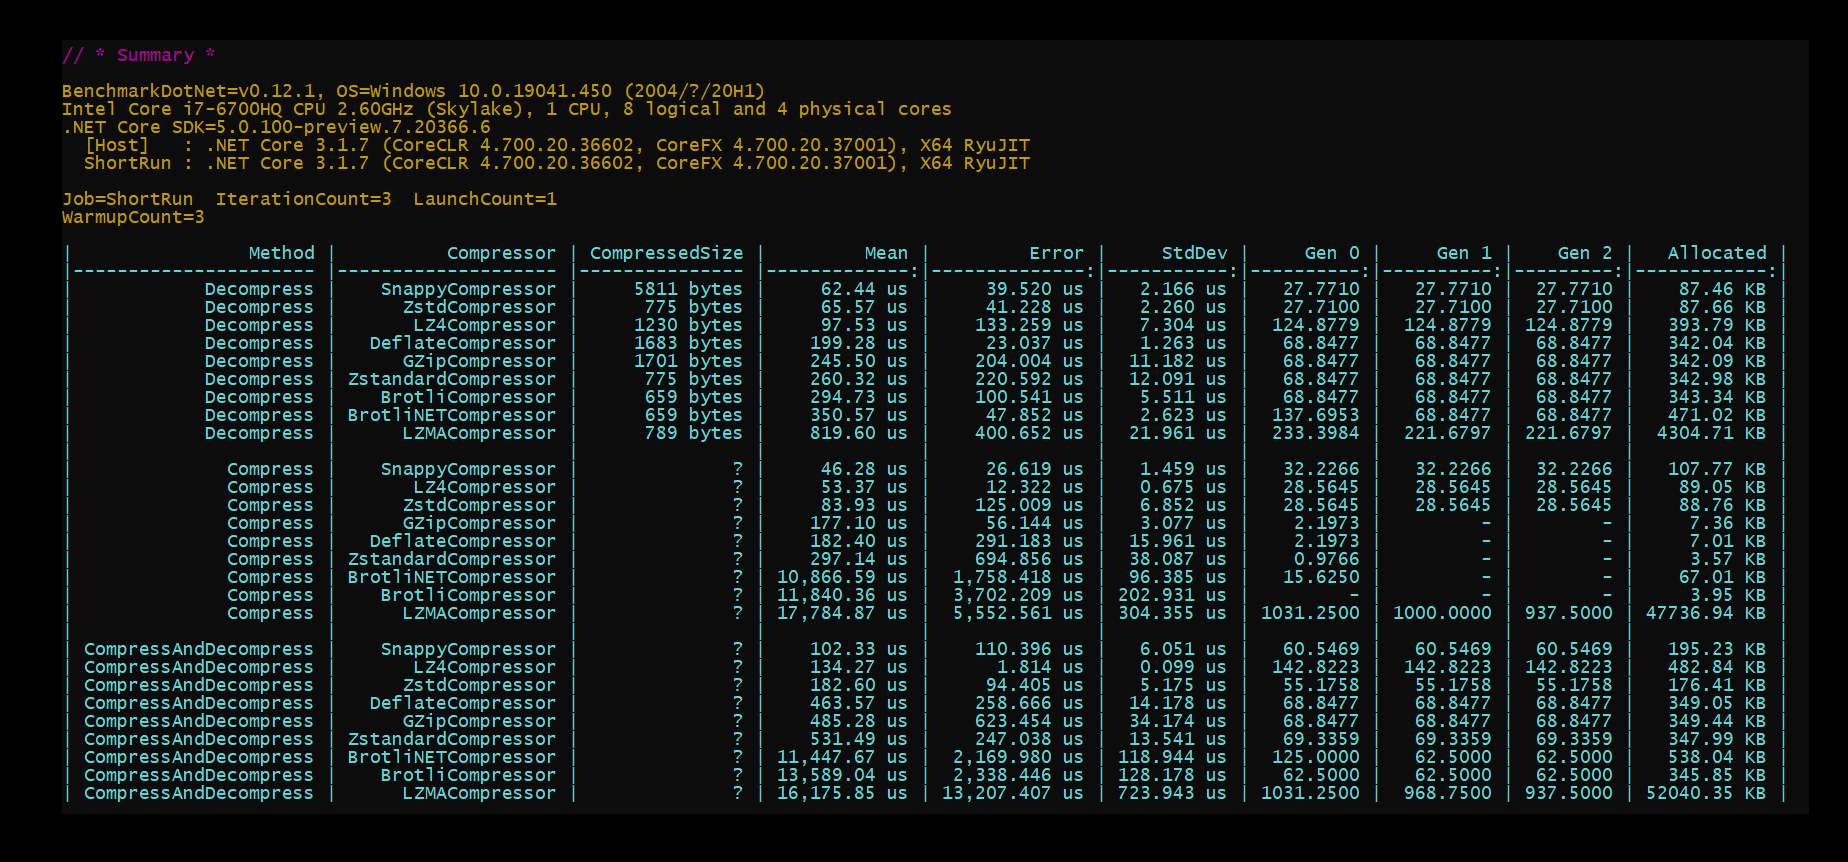
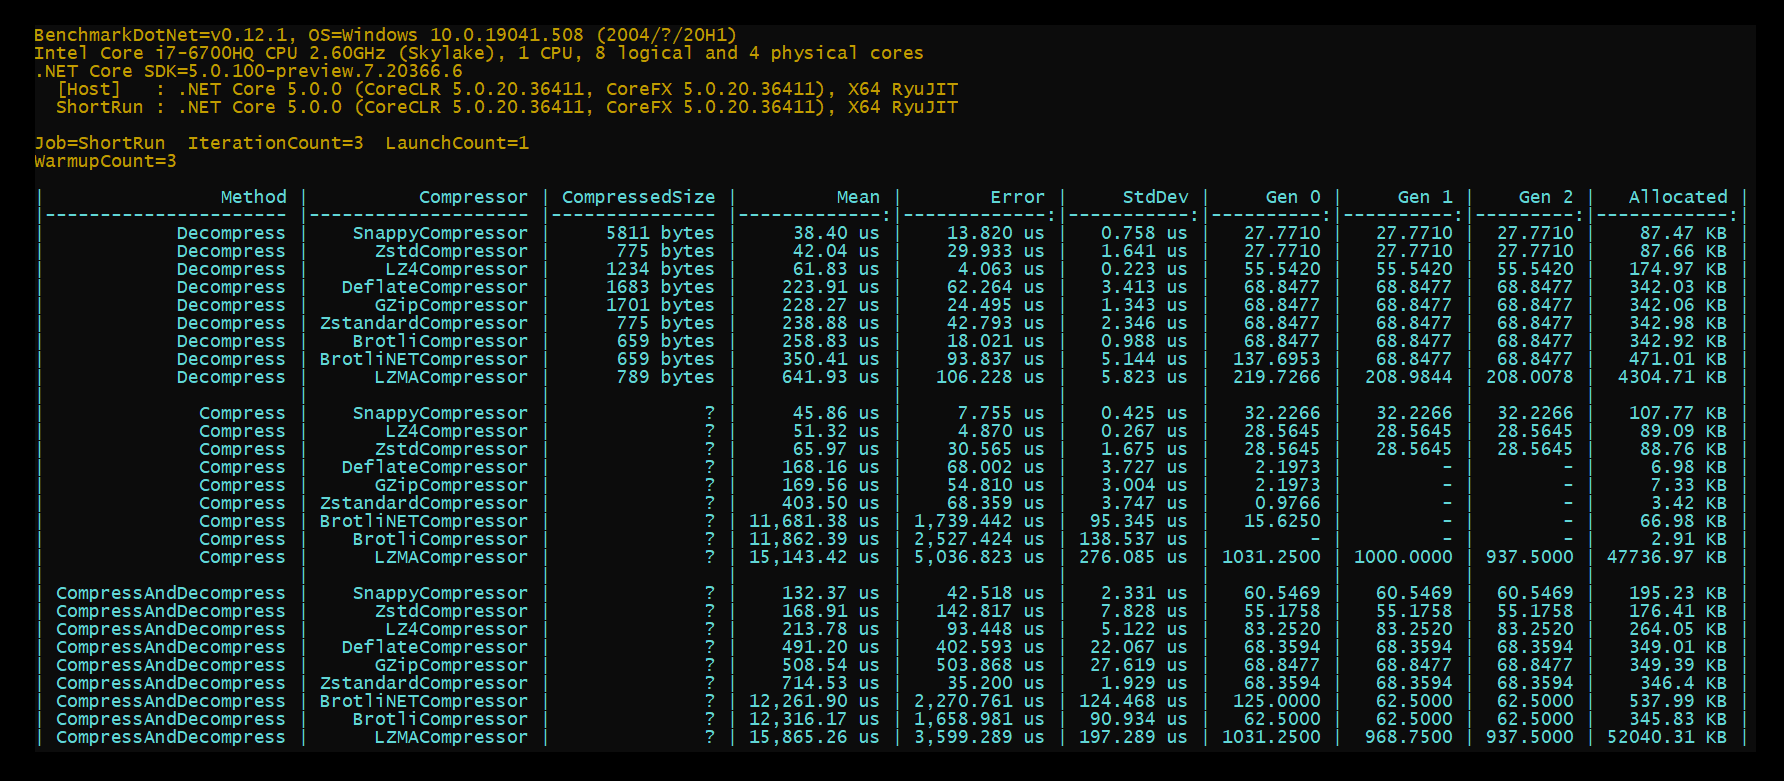
LZ4 fix actual length

Changed region(s): [[0.0, 0.0307, 0.9865, 0.9526], [0.0308, 0.3073, 0.0617, 0.338]]

diff --git a/test/EasyCompressor.Benchmark/BenchmarkDotNet.Artifacts/results/EasySerializer.Benchmark.BinaryBenchmark-report.html b/test/EasyCompressor.Benchmark/BenchmarkDotNet.Artifacts/results/EasySerializer.Benchmark.BinaryBenchmark-report.html
@@ -1,0 +1,58 @@
+<!DOCTYPE html>
+<html lang='en'>
+<head>
+<meta charset='utf-8' />
+<title>EasySerializer.Benchmark.BinaryBenchmark-20200915-010350</title>
+
+<style type="text/css">
+	table { border-collapse: collapse; display: block; width: 100%; overflow: auto; }
+	td, th { padding: 6px 13px; border: 1px solid #ddd; text-align: right; }
+	tr { background-color: #fff; border-top: 1px solid #ccc; }
+	tr:nth-child(even) { background: #f8f8f8; }
+</style>
+</head>
+<body>
+<pre><code>
+BenchmarkDotNet=v0.12.1, OS=Windows 10.0.19041.508 (2004/?/20H1)
+Intel Core i7-6700HQ CPU 2.60GHz (Skylake), 1 CPU, 8 logical and 4 physical cores
+.NET Core SDK=5.0.100-preview.7.20366.6
+  [Host]   : .NET Core 5.0.0 (CoreCLR 5.0.20.36411, CoreFX 5.0.20.36411), X64 RyuJIT
+  ShortRun : .NET Core 5.0.0 (CoreCLR 5.0.20.36411, CoreFX 5.0.20.36411), X64 RyuJIT
+</code></pre>
+<pre><code>Job=ShortRun  IterationCount=3  LaunchCount=1  
+WarmupCount=3  
+</code></pre>
+
+<table>
+<thead><tr><th>         Method</th><th>   Compressor</th><th>CompressedSize</th><th>  Mean</th><th> Error</th><th>StdDev</th><th>Gen 0</th><th>Gen 1</th><th>Gen 2</th><th>Allocated</th>
+</tr>
+</thead><tbody><tr><td>Decompress</td><td>SnappyCompressor</td><td>5811 bytes</td><td>38.40 &mu;s</td><td>13.820 &mu;s</td><td>0.758 &mu;s</td><td>27.7710</td><td>27.7710</td><td>27.7710</td><td>87.47 KB</td>
+</tr><tr><td>Decompress</td><td>ZstdCompressor</td><td>775 bytes</td><td>42.04 &mu;s</td><td>29.933 &mu;s</td><td>1.641 &mu;s</td><td>27.7710</td><td>27.7710</td><td>27.7710</td><td>87.66 KB</td>
+</tr><tr><td>Decompress</td><td>LZ4Compressor</td><td>1234 bytes</td><td>61.83 &mu;s</td><td>4.063 &mu;s</td><td>0.223 &mu;s</td><td>55.5420</td><td>55.5420</td><td>55.5420</td><td>174.97 KB</td>
+</tr><tr><td>Decompress</td><td>DeflateCompressor</td><td>1683 bytes</td><td>223.91 &mu;s</td><td>62.264 &mu;s</td><td>3.413 &mu;s</td><td>68.8477</td><td>68.8477</td><td>68.8477</td><td>342.03 KB</td>
+</tr><tr><td>Decompress</td><td>GZipCompressor</td><td>1701 bytes</td><td>228.27 &mu;s</td><td>24.495 &mu;s</td><td>1.343 &mu;s</td><td>68.8477</td><td>68.8477</td><td>68.8477</td><td>342.06 KB</td>
+</tr><tr><td>Decompress</td><td>ZstandardCompressor</td><td>775 bytes</td><td>238.88 &mu;s</td><td>42.793 &mu;s</td><td>2.346 &mu;s</td><td>68.8477</td><td>68.8477</td><td>68.8477</td><td>342.98 KB</td>
+</tr><tr><td>Decompress</td><td>BrotliCompressor</td><td>659 bytes</td><td>258.83 &mu;s</td><td>18.021 &mu;s</td><td>0.988 &mu;s</td><td>68.8477</td><td>68.8477</td><td>68.8477</td><td>342.92 KB</td>
+</tr><tr><td>Decompress</td><td>BrotliNETCompressor</td><td>659 bytes</td><td>350.41 &mu;s</td><td>93.837 &mu;s</td><td>5.144 &mu;s</td><td>137.6953</td><td>68.8477</td><td>68.8477</td><td>471.01 KB</td>
+</tr><tr><td>Decompress</td><td>LZMACompressor</td><td>789 bytes</td><td>641.93 &mu;s</td><td>106.228 &mu;s</td><td>5.823 &mu;s</td><td>219.7266</td><td>208.9844</td><td>208.0078</td><td>4304.71 KB</td>
+</tr><tr><td>Compress</td><td>SnappyCompressor</td><td>?</td><td>45.86 &mu;s</td><td>7.755 &mu;s</td><td>0.425 &mu;s</td><td>32.2266</td><td>32.2266</td><td>32.2266</td><td>107.77 KB</td>
+</tr><tr><td>Compress</td><td>LZ4Compressor</td><td>?</td><td>51.32 &mu;s</td><td>4.870 &mu;s</td><td>0.267 &mu;s</td><td>28.5645</td><td>28.5645</td><td>28.5645</td><td>89.09 KB</td>
+</tr><tr><td>Compress</td><td>ZstdCompressor</td><td>?</td><td>65.97 &mu;s</td><td>30.565 &mu;s</td><td>1.675 &mu;s</td><td>28.5645</td><td>28.5645</td><td>28.5645</td><td>88.76 KB</td>
+</tr><tr><td>Compress</td><td>DeflateCompressor</td><td>?</td><td>168.16 &mu;s</td><td>68.002 &mu;s</td><td>3.727 &mu;s</td><td>2.1973</td><td>-</td><td>-</td><td>6.98 KB</td>
+</tr><tr><td>Compress</td><td>GZipCompressor</td><td>?</td><td>169.56 &mu;s</td><td>54.810 &mu;s</td><td>3.004 &mu;s</td><td>2.1973</td><td>-</td><td>-</td><td>7.33 KB</td>
+</tr><tr><td>Compress</td><td>ZstandardCompressor</td><td>?</td><td>403.50 &mu;s</td><td>68.359 &mu;s</td><td>3.747 &mu;s</td><td>0.9766</td><td>-</td><td>-</td><td>3.42 KB</td>
+</tr><tr><td>Compress</td><td>BrotliNETCompressor</td><td>?</td><td>11,681.38 &mu;s</td><td>1,739.442 &mu;s</td><td>95.345 &mu;s</td><td>15.6250</td><td>-</td><td>-</td><td>66.98 KB</td>
+</tr><tr><td>Compress</td><td>BrotliCompressor</td><td>?</td><td>11,862.39 &mu;s</td><td>2,527.424 &mu;s</td><td>138.537 &mu;s</td><td>-</td><td>-</td><td>-</td><td>2.91 KB</td>
+</tr><tr><td>Compress</td><td>LZMACompressor</td><td>?</td><td>15,143.42 &mu;s</td><td>5,036.823 &mu;s</td><td>276.085 &mu;s</td><td>1031.2500</td><td>1000.0000</td><td>937.5000</td><td>47736.97 KB</td>
+</tr><tr><td>CompressAndDecompress</td><td>SnappyCompressor</td><td>?</td><td>132.37 &mu;s</td><td>42.518 &mu;s</td><td>2.331 &mu;s</td><td>60.5469</td><td>60.5469</td><td>60.5469</td><td>195.23 KB</td>
+</tr><tr><td>CompressAndDecompress</td><td>ZstdCompressor</td><td>?</td><td>168.91 &mu;s</td><td>142.817 &mu;s</td><td>7.828 &mu;s</td><td>55.1758</td><td>55.1758</td><td>55.1758</td><td>176.41 KB</td>
+</tr><tr><td>CompressAndDecompress</td><td>LZ4Compressor</td><td>?</td><td>213.78 &mu;s</td><td>93.448 &mu;s</td><td>5.122 &mu;s</td><td>83.2520</td><td>83.2520</td><td>83.2520</td><td>264.05 KB</td>
+</tr><tr><td>CompressAndDecompress</td><td>DeflateCompressor</td><td>?</td><td>491.20 &mu;s</td><td>402.593 &mu;s</td><td>22.067 &mu;s</td><td>68.3594</td><td>68.3594</td><td>68.3594</td><td>349.01 KB</td>
+</tr><tr><td>CompressAndDecompress</td><td>GZipCompressor</td><td>?</td><td>508.54 &mu;s</td><td>503.868 &mu;s</td><td>27.619 &mu;s</td><td>68.8477</td><td>68.8477</td><td>68.8477</td><td>349.39 KB</td>
+</tr><tr><td>CompressAndDecompress</td><td>ZstandardCompressor</td><td>?</td><td>714.53 &mu;s</td><td>35.200 &mu;s</td><td>1.929 &mu;s</td><td>68.3594</td><td>68.3594</td><td>68.3594</td><td>346.4 KB</td>
+</tr><tr><td>CompressAndDecompress</td><td>BrotliNETCompressor</td><td>?</td><td>12,261.90 &mu;s</td><td>2,270.761 &mu;s</td><td>124.468 &mu;s</td><td>125.0000</td><td>62.5000</td><td>62.5000</td><td>537.99 KB</td>
+</tr><tr><td>CompressAndDecompress</td><td>BrotliCompressor</td><td>?</td><td>12,316.17 &mu;s</td><td>1,658.981 &mu;s</td><td>90.934 &mu;s</td><td>62.5000</td><td>62.5000</td><td>62.5000</td><td>345.83 KB</td>
+</tr><tr><td>CompressAndDecompress</td><td>LZMACompressor</td><td>?</td><td>15,865.26 &mu;s</td><td>3,599.289 &mu;s</td><td>197.289 &mu;s</td><td>1031.2500</td><td>968.7500</td><td>937.5000</td><td>52040.31 KB</td>
+</tr></tbody></table>
+</body>
+</html>

diff --git a/src/EasyCompressor.LZ4/LZ4Compressor.cs b/src/EasyCompressor.LZ4/LZ4Compressor.cs
@@ -1,5 +1,6 @@
 using System;
 using System.IO;
+using System.Linq;
 using System.Threading;
 using System.Threading.Tasks;
 using K4os.Compression.LZ4;
@@ -31,16 +32,22 @@ namespace EasyCompressor
         /// <inheritdoc/>
         protected override byte[] BaseCompress(byte[] bytes)
         {
-            var target = new byte[LZ4Codec.MaximumOutputSize(bytes.Length)].AsSpan();
-            int compressedBytesSize = LZ4Codec.Encode(bytes, target, Level);
-            return target.Slice(0, compressedBytesSize).ToArray();
+            var source = bytes.AsSpan();
+            var target = new byte[LZ4Codec.MaximumOutputSize(source.Length) + 4].AsSpan();
+            var size = BitConverter.GetBytes(source.Length).AsSpan();
+            size.CopyTo(target);
+            int compressedBytesSize = LZ4Codec.Encode(source, target.Slice(4), Level);
+            return target.Slice(0, compressedBytesSize + 4).ToArray();
         }
 
         /// <inheritdoc/>
         protected override byte[] BaseDecompress(byte[] compressedBytes)
         {
-            var target = new byte[compressedBytes.Length * 255].AsSpan();
-            int decoded = LZ4Codec.Decode(compressedBytes, target);
+            var source = compressedBytes.AsSpan();
+            var size = source.Slice(0, 4).ToArray();
+            var length = BitConverter.ToInt32(size, 0);
+            var target = new byte[length].AsSpan();
+            int decoded = LZ4Codec.Decode(source.Slice(4), target);
             return target.Slice(0, decoded).ToArray();
         }
 

diff --git a/test/EasyCompressor.Benchmark/BenchmarkDotNet.Artifacts/results/EasySerializer.Benchmark.BinaryBenchmark-report-github.md b/test/EasyCompressor.Benchmark/BenchmarkDotNet.Artifacts/results/EasySerializer.Benchmark.BinaryBenchmark-report-github.md
@@ -1,0 +1,43 @@
+``` ini
+
+BenchmarkDotNet=v0.12.1, OS=Windows 10.0.19041.508 (2004/?/20H1)
+Intel Core i7-6700HQ CPU 2.60GHz (Skylake), 1 CPU, 8 logical and 4 physical cores
+.NET Core SDK=5.0.100-preview.7.20366.6
+  [Host]   : .NET Core 5.0.0 (CoreCLR 5.0.20.36411, CoreFX 5.0.20.36411), X64 RyuJIT
+  ShortRun : .NET Core 5.0.0 (CoreCLR 5.0.20.36411, CoreFX 5.0.20.36411), X64 RyuJIT
+
+Job=ShortRun  IterationCount=3  LaunchCount=1  
+WarmupCount=3  
+
+```
+|                Method |          Compressor | CompressedSize |         Mean |        Error |     StdDev |     Gen 0 |     Gen 1 |    Gen 2 |   Allocated |
+|---------------------- |-------------------- |--------------- |-------------:|-------------:|-----------:|----------:|----------:|---------:|------------:|
+|            Decompress |    SnappyCompressor |     5811 bytes |     38.40 μs |    13.820 μs |   0.758 μs |   27.7710 |   27.7710 |  27.7710 |    87.47 KB |
+|            Decompress |      ZstdCompressor |      775 bytes |     42.04 μs |    29.933 μs |   1.641 μs |   27.7710 |   27.7710 |  27.7710 |    87.66 KB |
+|            Decompress |       LZ4Compressor |     1234 bytes |     61.83 μs |     4.063 μs |   0.223 μs |   55.5420 |   55.5420 |  55.5420 |   174.97 KB |
+|            Decompress |   DeflateCompressor |     1683 bytes |    223.91 μs |    62.264 μs |   3.413 μs |   68.8477 |   68.8477 |  68.8477 |   342.03 KB |
+|            Decompress |      GZipCompressor |     1701 bytes |    228.27 μs |    24.495 μs |   1.343 μs |   68.8477 |   68.8477 |  68.8477 |   342.06 KB |
+|            Decompress | ZstandardCompressor |      775 bytes |    238.88 μs |    42.793 μs |   2.346 μs |   68.8477 |   68.8477 |  68.8477 |   342.98 KB |
+|            Decompress |    BrotliCompressor |      659 bytes |    258.83 μs |    18.021 μs |   0.988 μs |   68.8477 |   68.8477 |  68.8477 |   342.92 KB |
+|            Decompress | BrotliNETCompressor |      659 bytes |    350.41 μs |    93.837 μs |   5.144 μs |  137.6953 |   68.8477 |  68.8477 |   471.01 KB |
+|            Decompress |      LZMACompressor |      789 bytes |    641.93 μs |   106.228 μs |   5.823 μs |  219.7266 |  208.9844 | 208.0078 |  4304.71 KB |
+|                       |                     |                |              |              |            |           |           |          |             |
+|              Compress |    SnappyCompressor |              ? |     45.86 μs |     7.755 μs |   0.425 μs |   32.2266 |   32.2266 |  32.2266 |   107.77 KB |
+|              Compress |       LZ4Compressor |              ? |     51.32 μs |     4.870 μs |   0.267 μs |   28.5645 |   28.5645 |  28.5645 |    89.09 KB |
+|              Compress |      ZstdCompressor |              ? |     65.97 μs |    30.565 μs |   1.675 μs |   28.5645 |   28.5645 |  28.5645 |    88.76 KB |
+|              Compress |   DeflateCompressor |              ? |    168.16 μs |    68.002 μs |   3.727 μs |    2.1973 |         - |        - |     6.98 KB |
+|              Compress |      GZipCompressor |              ? |    169.56 μs |    54.810 μs |   3.004 μs |    2.1973 |         - |        - |     7.33 KB |
+|              Compress | ZstandardCompressor |              ? |    403.50 μs |    68.359 μs |   3.747 μs |    0.9766 |         - |        - |     3.42 KB |
+|              Compress | BrotliNETCompressor |              ? | 11,681.38 μs | 1,739.442 μs |  95.345 μs |   15.6250 |         - |        - |    66.98 KB |
+|              Compress |    BrotliCompressor |              ? | 11,862.39 μs | 2,527.424 μs | 138.537 μs |         - |         - |        - |     2.91 KB |
+|              Compress |      LZMACompressor |              ? | 15,143.42 μs | 5,036.823 μs | 276.085 μs | 1031.2500 | 1000.0000 | 937.5000 | 47736.97 KB |
+|                       |                     |                |              |              |            |           |           |          |             |
+| CompressAndDecompress |    SnappyCompressor |              ? |    132.37 μs |    42.518 μs |   2.331 μs |   60.5469 |   60.5469 |  60.5469 |   195.23 KB |
+| CompressAndDecompress |      ZstdCompressor |              ? |    168.91 μs |   142.817 μs |   7.828 μs |   55.1758 |   55.1758 |  55.1758 |   176.41 KB |
+| CompressAndDecompress |       LZ4Compressor |              ? |    213.78 μs |    93.448 μs |   5.122 μs |   83.2520 |   83.2520 |  83.2520 |   264.05 KB |
+| CompressAndDecompress |   DeflateCompressor |              ? |    491.20 μs |   402.593 μs |  22.067 μs |   68.3594 |   68.3594 |  68.3594 |   349.01 KB |
+| CompressAndDecompress |      GZipCompressor |              ? |    508.54 μs |   503.868 μs |  27.619 μs |   68.8477 |   68.8477 |  68.8477 |   349.39 KB |
+| CompressAndDecompress | ZstandardCompressor |              ? |    714.53 μs |    35.200 μs |   1.929 μs |   68.3594 |   68.3594 |  68.3594 |    346.4 KB |
+| CompressAndDecompress | BrotliNETCompressor |              ? | 12,261.90 μs | 2,270.761 μs | 124.468 μs |  125.0000 |   62.5000 |  62.5000 |   537.99 KB |
+| CompressAndDecompress |    BrotliCompressor |              ? | 12,316.17 μs | 1,658.981 μs |  90.934 μs |   62.5000 |   62.5000 |  62.5000 |   345.83 KB |
+| CompressAndDecompress |      LZMACompressor |              ? | 15,865.26 μs | 3,599.289 μs | 197.289 μs | 1031.2500 |  968.7500 | 937.5000 | 52040.31 KB |
